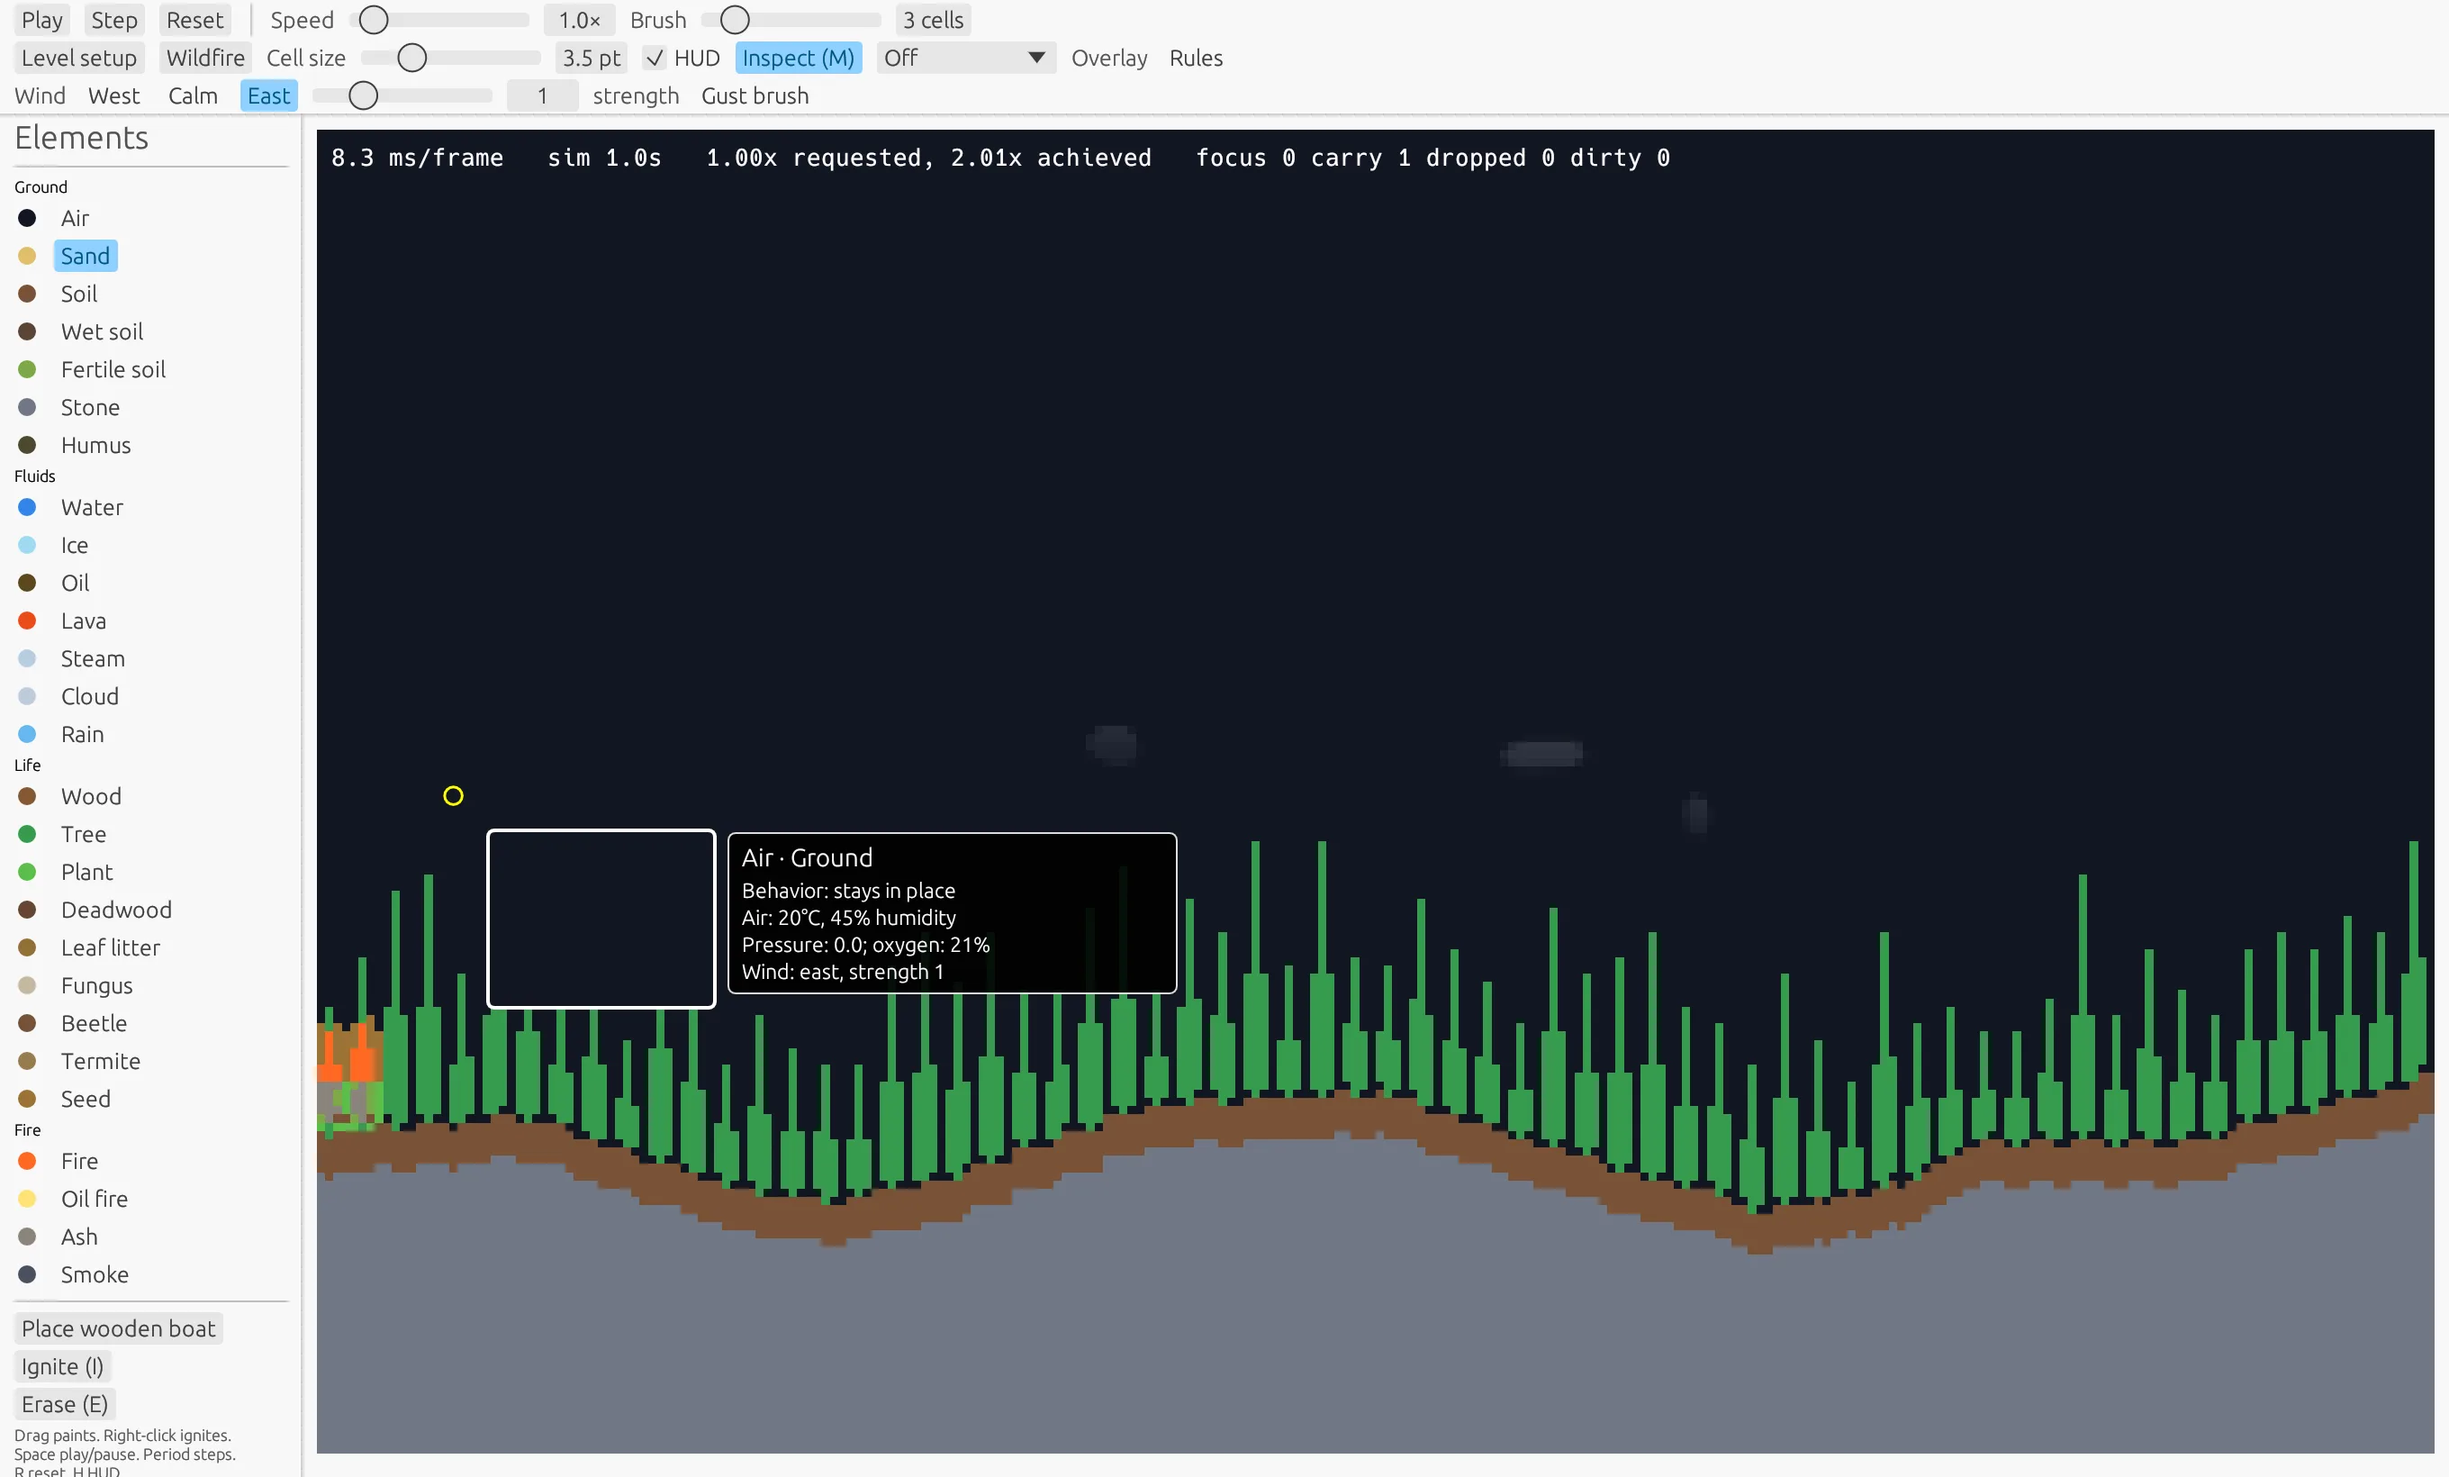
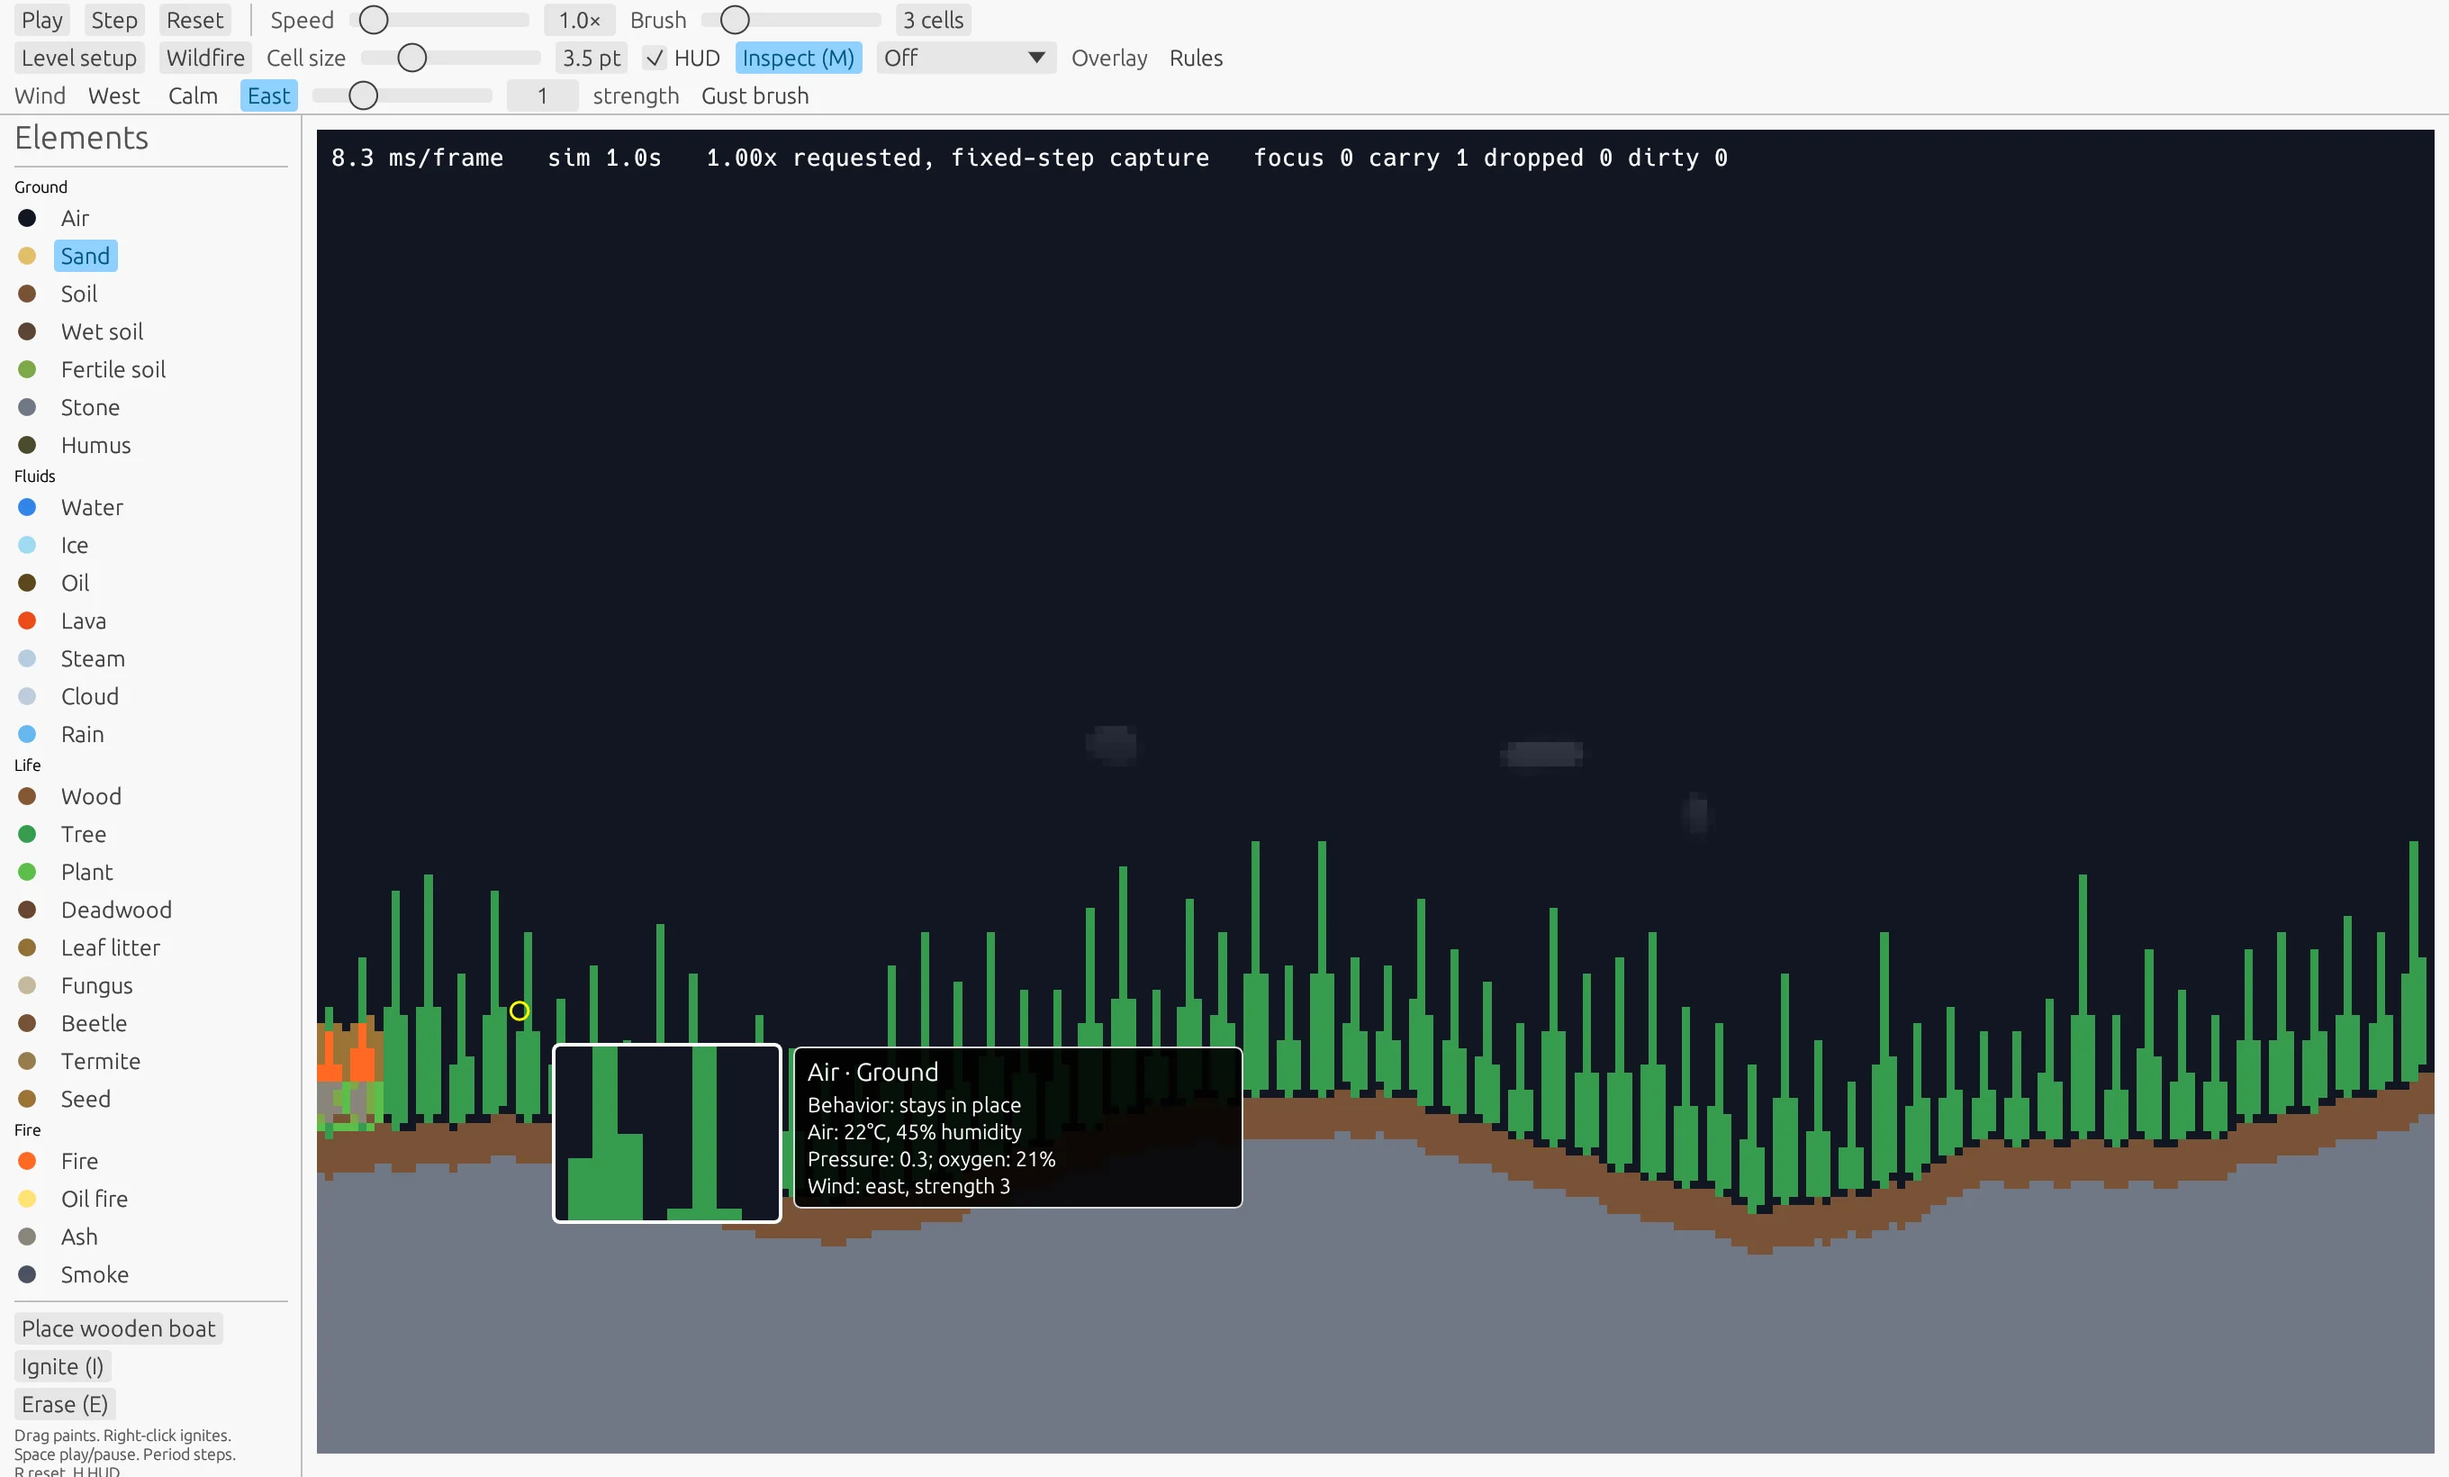
fix: label deterministic capture speed accurately (#74)
Metadata
- Follow-up: Tinderbox README capture speed

Problem
- Unthrottled deterministic captures reported simulation throughput as achieved interactive speed.

Solution
- Label fixed-step capture HUDs explicitly and preserve the interactive achieved-speed metric.
- Test elapsed-time work accrual at 120 Hz and refresh active README captures.

Changed region(s): [[0.1875, 0.5598, 0.5312, 0.8396], [0.375, 0.0933, 0.6875, 0.1244]]

diff --git a/crates/app/src/app.rs b/crates/app/src/app.rs
@@ -45,6 +45,14 @@ const MIN_SMOOTH_PLAY_FRAME_INTERVAL: std::time::Duration = std::time::Duration:
 const SMOOTH_PLAY_WARMUP_FRAMES: usize = 2;
 const MAX_INTERACTIVE_FRAME_DT: f32 = 0.25;
 
+fn simulation_frame_dt(wall_dt: f32, fixed_step: bool) -> f32 {
+    if fixed_step {
+        FIXED_FRAME_DT
+    } else {
+        wall_dt.clamp(0.0, MAX_INTERACTIVE_FRAME_DT)
+    }
+}
+
 fn fitted_world_dimensions(available: egui::Vec2, cell_size: f32) -> (usize, usize) {
     let width = (available.x / cell_size)
         .floor()
@@ -264,6 +272,13 @@ struct CaptureOptions {
     inspect_at: Option<(usize, usize)>,
 }
 
+#[cfg(not(target_arch = "wasm32"))]
+impl CaptureOptions {
+    fn fixed_step(&self) -> bool {
+        self.after_frames.is_some() || self.at_seconds.is_some()
+    }
+}
+
 /// Scripted span-demo stages. Each capture moves to its next stage when it is requested.
 #[cfg(not(target_arch = "wasm32"))]
 #[derive(Clone, Copy, Debug, PartialEq, Eq)]
@@ -307,6 +322,33 @@ struct NativeArgs {
     speed: f32,
 }
 impl Tinderbox {
+    fn speed_status(&self) -> String {
+        if self.fixed_step_capture() {
+            return format!("{:.2}x requested, fixed-step capture", self.speed);
+        }
+        format!(
+            "{:.2}x requested, {:.2}x achieved",
+            self.speed, self.sim_rate
+        )
+    }
+
+    fn fixed_step_capture(&self) -> bool {
+        #[cfg(not(target_arch = "wasm32"))]
+        {
+            self.capture
+                .as_ref()
+                .is_some_and(CaptureOptions::fixed_step)
+        }
+        #[cfg(target_arch = "wasm32")]
+        {
+            false
+        }
+    }
+
+    fn fixed_step_simulation(&self) -> bool {
+        self.stress_play || self.fixed_step_capture()
+    }
+
     #[cfg(not(target_arch = "wasm32"))]
     fn new(cc: &eframe::CreationContext<'_>) -> Self {
         let args = native_args().unwrap_or_else(|error| panic!("{error}"));
@@ -1516,18 +1558,8 @@ impl eframe::App for Tinderbox {
         self.last_frame = now;
         let update_work_started = Instant::now();
         self.frame_ms = self.frame_ms * 0.9 + wall_dt * 100.0;
-        #[cfg(not(target_arch = "wasm32"))]
-        let fixed_step = self.stress_play
-            || self.capture.as_ref().is_some_and(|capture| {
-                capture.after_frames.is_some() || capture.at_seconds.is_some()
-            });
-        #[cfg(target_arch = "wasm32")]
-        let fixed_step = false;
-        let dt = if fixed_step {
-            FIXED_FRAME_DT
-        } else {
-            wall_dt.clamp(0.0, MAX_INTERACTIVE_FRAME_DT)
-        };
+        let fixed_step = self.fixed_step_simulation();
+        let dt = simulation_frame_dt(wall_dt, fixed_step);
         self.simulate_frame(ctx, dt, wall_dt);
         input::handle_keyboard(self, ctx);
         // Interactive play and smooth-play use native vsync. Captures request frames

diff --git a/crates/app/src/app/tests.rs b/crates/app/src/app/tests.rs
@@ -723,6 +723,50 @@ fn smooth_play_skips_setup_and_handles_small_worlds() {
 fn deterministic_native_step_targets_sixty_hertz() {
     assert!((FIXED_FRAME_DT - 1.0 / 60.0).abs() < f32::EPSILON);
     assert_eq!(MAX_INTERACTIVE_FRAME_DT, 0.25);
+    assert_eq!(simulation_frame_dt(1.0 / 120.0, true), FIXED_FRAME_DT);
+}
+
+#[cfg(not(target_arch = "wasm32"))]
+#[test]
+fn fixed_step_capture_hud_labels_simulation_mode_instead_of_wall_clock_rate() {
+    let mut app = Tinderbox::new_state(false);
+    app.sim_rate = 2.03;
+    app.capture = Some(CaptureOptions {
+        at_seconds: Some(12),
+        ..Default::default()
+    });
+
+    assert!(app.fixed_step_capture());
+    assert!(app.fixed_step_simulation());
+    assert_eq!(app.speed_status(), "1.00x requested, fixed-step capture");
+
+    app.capture = Some(CaptureOptions {
+        measure_real_seconds: Some(5.0),
+        ..Default::default()
+    });
+    assert!(!app.fixed_step_capture());
+    assert!(!app.fixed_step_simulation());
+    assert_eq!(app.speed_status(), "1.00x requested, 2.03x achieved");
+}
+
+#[test]
+fn interactive_play_tracks_real_time_at_120_hz() {
+    const REFRESH_RATE: usize = 120;
+    let wall_dt = 1.0 / REFRESH_RATE as f32;
+    let mut work = WorkAccumulator::default();
+    let mut completed = 0;
+
+    for _ in 0..REFRESH_RATE {
+        work.accrue(simulation_frame_dt(wall_dt, false), 1.0);
+        completed += work.take(MAX_WORK_PER_FRAME);
+    }
+
+    let simulated_seconds = completed as f64 / WORK_UNITS_PER_SECOND;
+    assert!(
+        (simulated_seconds - 1.0).abs() < 0.01,
+        "simulated {simulated_seconds}s"
+    );
+    assert_eq!(work.dropped, 0.0);
 }
 
 #[test]

diff --git a/crates/app/src/app/panels/hud.rs b/crates/app/src/app/panels/hud.rs
@@ -7,8 +7,10 @@ pub(super) fn show(app: &Tinderbox, painter: &Painter, rect: Rect) {
         return;
     }
     let frame_status = format!(
-        "{:.1} ms/frame   sim {:.1}s   {:.2}x requested, {:.2}x achieved",
-        app.frame_ms, app.sim_seconds, app.speed, app.sim_rate,
+        "{:.1} ms/frame   sim {:.1}s   {}",
+        app.frame_ms,
+        app.sim_seconds,
+        app.speed_status(),
     );
     let work_status = format!(
         "focus {} carry {} dropped {} dirty {}",

diff --git a/docs/capture-and-testing.md b/docs/capture-and-testing.md
@@ -45,6 +45,8 @@ Capture options:
 - `--span-evidence DIR` runs the scripted endless-world fire demonstration and saves the burning view, far-east view, and return view.
 - `--smooth-play` runs a 900-frame native heavy-play check. Add `--world-size=1024x640` to exercise a larger grid. The report includes simulation and texture-upload caps, frame intervals, and timing data.
 
+Fixed-step captures advance at deterministic simulation steps and label the HUD as `fixed-step capture`; their frame interval describes capture runtime, not interactive achieved speed. Use `--measure-real-seconds` to measure speed against wall time.
+
 Interactive simulation work adapts to a 10 ms target per frame and caps carried work at three frames at the requested speed. The HUD reports requested and achieved speed, pending work, and discarded excess work. Native windows start at 1360 × 860; worlds fit the visible canvas by default at 3.5 logical points per cell, and the **Cell size** control zooms from 2 to 8 points per cell. Resizing preserves existing cells and regenerates newly exposed terrain from the same level seed after a 120 ms debounce.
 
 For native fixed-step captures and desktop checks, use a stable recipe, seed, and requested time. Only describe properties visible in the resulting image.
